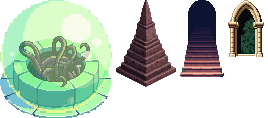
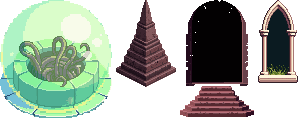
Temple: exact wall tiles, flush doors, no corner-only contacts, larger decor
The wall picker now prefers the tile with fewer wrong squares on a score tie (a wall's end tile was drawn partway
along straight walls); tools/walls.js lists any inexact corner and the test holds every place at none. Doors in
north-south walls, the palace's way out, the guardhouse door and the palace stair down are inpainted by PixelLab into
renders of their own spots. tools/diagonals.js and a test keep walkable squares from meeting only at a corner (three
in the sewer fixed). Larger statues, stairs up, masks, banners and niches.

Claude-Session: https://claude.ai/code/session_0141D3J1nxiiYur4nPnE9YEF

diff --git a/tools/diagonals.js b/tools/diagonals.js
@@ -1,0 +1,28 @@
+// Lists the places where two walkable squares touch only at a corner, with the two squares between them not walkable
+// (wall or deep water): drawn, the ground runs on through the corner and looks like a way through, but you can't step
+// it. node tools/diagonals.js [place...]; exits 1 if any.
+const path = require('path');
+const repo = path.resolve(__dirname, '..');
+process.chdir(repo + '/tests');
+require(repo + '/tests/load.js');
+const G = globalThis.BBB, places = G.Content.world.places;
+const ids = process.argv.slice(2).length ? process.argv.slice(2) : Object.keys(places).filter((id) => places[id].look && places[id].look.tileset);
+// Walkable by its letter: not wall or rock, and not ground you can't walk (deep water) or that is a wall (a riser).
+const walk = (pl, ch) => {
+  if (ch === undefined || ch === '#' || ch === ' ') return false;
+  const def = pl.legend && pl.legend[ch];
+  const gr = G.Explore.groundOf(def ? def.on || (pl.look && pl.look.ground) || '.' : ch);
+  return !(gr && (gr.wall || gr.walk === false));
+};
+let total = 0;
+for (const id of ids) {
+  const pl = places[id], rows = pl.map, bad = [];
+  const at = (x, y) => walk(pl, rows[y] && rows[y][x]);
+  for (let y = 0; y + 1 < rows.length; y++) for (let x = 0; x + 1 < rows[y].length; x++) {
+    const a = at(x, y), b = at(x + 1, y), c = at(x, y + 1), d = at(x + 1, y + 1);
+    if ((a && d && !b && !c) || (b && c && !a && !d)) bad.push(`${x},${y}`);
+  }
+  total += bad.length;
+  console.log(`${id}: ${bad.length} corner(s) where walkable squares touch only diagonally${bad.length ? ': ' + bad.join(' ') : ''}`);
+}
+process.exitCode = total ? 1 : 0;

diff --git a/src/ui/game/tilemap.js b/src/ui/game/tilemap.js
@@ -445,18 +445,21 @@
       const g = [];
       for (let i = 0; i < 4; i++) for (let j = 0; j < 4; j++) g.push(v(x - 2 + j, y - 2 + i));
       if (!(g[5] || g[6] || g[9] || g[10])) continue;
-      // Ties (a tile and its variants) are broken by position.
-      let best = null, bs = -Infinity, ties = 0;
+      // Of tiles that score the same, the one that gets fewer squares wrong: a wall's end tile also scores as much as its
+      // straight tile partway along it (one outer square right, one wrong), and drew a lip there. Ties left (a tile and
+      // its variants) are broken by position.
+      let best = null, bs = -Infinity, bm = 0, ties = 0;
       for (const tl of w.cliffTiles) {
-        let sc = 0;
+        let sc = 0, miss = 0;
         for (let k = 0; k < 16; k++) {
           const want = tl.p[k];
           if (want < 0) continue;
           const mid = k === 5 || k === 6 || k === 9 || k === 10;
           sc += g[k] === want ? (mid ? 10 : 1) : mid ? -30 : -1;
+          if (g[k] !== want) miss++;
         }
-        if (sc > bs) { bs = sc; best = tl; ties = 1; }
-        else if (sc === bs && hash(x, y, 13 + ties++) % ties === 0) best = tl;
+        if (sc > bs || (sc === bs && miss < bm)) { bs = sc; bm = miss; best = tl; ties = 1; }
+        else if (sc === bs && miss === bm && hash(x, y, 13 + ties++) % ties === 0) best = tl;
       }
       if (best) out.corner.push({ x, y, t: w.name, at: best.at });
       // A corner no tile fits exactly (some square the tile cares about differs): tools/walls.js lists these.

diff --git a/tools/walls.js b/tools/walls.js
@@ -1,7 +1,6 @@
-// Lists the wall corners in tiled places where the best tile of their cliff set gets one of the corner's own four
-// squares wrong: the shapes that draw broken (a wall stepping down one row at a time, a wall one square thick
-// north-south). A tile that only misses an outer square of the 4x4 is fine and not listed. tools/squarewalls.js fixes
-// most of them. node tools/walls.js [place...]
+// Lists the wall corners in tiled places that no tile of their cliff set fits exactly: the shapes that draw broken (a
+// wall stepping down one row at a time, a wall one square thick north-south, a wall's end where it runs straight on).
+// tools/squarewalls.js fixes the shapes. node tools/walls.js [place...]
 const path = require('path');
 const repo = path.resolve(__dirname, '..');
 process.chdir(repo + '/tests');
@@ -17,7 +16,7 @@ for (const id of ids) {
   const g = G.Explore.here(w);
   const sc = { w: g.w, h: g.h, cell: (x, y) => G.Explore.peek(w, x, y), misfits: true };
   const p = Tm.planTiles(sc, Tm.tileset(pl.look.tileset), 0, 0, g.w - 1, g.h - 1);
-  const bad = (p.misfit || []).filter((m) => m.full - m.score >= 40);
+  const bad = p.misfit || [];
   total += bad.length;
   console.log(`${id}: ${bad.length} corner(s) drawn broken`);
   for (const m of bad) console.log(`  corner ${m.x},${m.y} (${m.t}) ${m.g.match(/..../g).join(' ')} -> tile ${m.at} score ${m.score}/${m.full}`);

diff --git a/tests/walls.test.js b/tests/walls.test.js
@@ -1,5 +1,6 @@
-// Every tiled place's walls can be drawn: no corner whose best cliff tile gets one of its own four squares wrong
-// (tools/walls.js lists them, tools/squarewalls.js squares most of them off).
+// Every tiled place's walls can be drawn: no corner that no cliff tile fits exactly (tools/walls.js lists them,
+// tools/squarewalls.js squares most of them off). And no walkable squares that touch only at a corner
+// (tools/diagonals.js): drawn, they look like a way through.
 const test = require('node:test');
 const assert = require('node:assert/strict');
 const { execFileSync } = require('child_process');
@@ -10,4 +11,11 @@ test('walls: every corner in every tiled place has a tile that fits it', () => {
   try { out = execFileSync('node', [path.join(__dirname, '../tools/walls.js')], { encoding: 'utf8' }); } catch (e) { out = e.stdout; }
   const broken = out.split('\n').filter((l) => /: [1-9]\d* corner/.test(l));
   assert.deepEqual(broken, [], out);
+});
+
+test('maps: no walkable squares meet only at a corner', () => {
+  let out = '';
+  try { out = execFileSync('node', [path.join(__dirname, '../tools/diagonals.js')], { encoding: 'utf8' }); } catch (e) { out = e.stdout; }
+  const bad = out.split('\n').filter((l) => /: [1-9]\d* corner/.test(l));
+  assert.deepEqual(bad, [], out);
 });

diff --git a/assets/wip/temple-doors/plan.js b/assets/wip/temple-doors/plan.js
@@ -18,5 +18,5 @@ const sc = { w: rows[0].length, h: rows.length, cell: (x, y) => {
 const Tm = G.UI.Tilemap, ts = Tm.tileset(pl.look.tileset);
 const p = Tm.planTiles(sc, ts, x0, y0, x1, y1);
 const terr = {};
-for (const [n, t] of Object.entries(ts.terrains)) terr[n] = { tile: t.tile || null, wang: t.wang || null, index: t.index || null, cell: ts.cell };
+for (const [n, t] of Object.entries(ts.terrains)) terr[n] = { tile: t.tile || null, wang: t.wang || null, index: t.index || null, over: t.over || null, cell: ts.cell };
 console.log(JSON.stringify({ dir: ts.dir, cell: ts.cell, base: p.base, corner: p.corner, terr }));

diff --git a/assets/wip/temple-doors/add.py b/assets/wip/temple-doors/add.py
@@ -1,0 +1,32 @@
+# Appends inpainted rectangles to art/worldtiles/temple/temple-doors.png and records them in rects.json.
+#   python3 assets/wip/temple-doors/add.py "$PWD"
+# Each entry: name, the inpaint output, the mask rect in it (x, y, w, h), and the door square's top-left in it; the
+# rect's offset from that square is the prop's [dx, dy]. A name already in rects.json is left where it is.
+import sys, json
+from PIL import Image
+
+root = sys.argv[1]
+here = root + '/assets/wip/temple-doors/'
+sheet_path = root + '/art/worldtiles/temple/temple-doors.png'
+NEW = [
+    ('palace_east', 'out-palace-W.png', (0, 70, 140, 52), (64, 64)),     # the palace's way out, in the west wall
+    ('pstair_east', 'out-pstair-E.png', (56, 70, 80, 52), (64, 64)),     # a door in a narrow palace wall
+    ('walltop_east', 'out-wall-E.png', (56, 70, 80, 52), (64, 64)),      # the guardhouse door on the wall top
+    ('palace_down', 'out-palace-D.png', (116, 112, 88, 104), (128, 128)),  # the stairwell down in the hall's niche
+]
+rects = json.load(open(here + 'rects.json'))
+sheet = Image.open(sheet_path).convert('RGBA')
+for name, f, (x, y, w, h), (sx, sy) in NEW:
+    if name in rects:
+        continue
+    piece = Image.open(here + f).convert('RGBA').crop((x, y, x + w, y + h))
+    at = sheet.width
+    grown = Image.new('RGBA', (at + w, max(sheet.height, h)), (0, 0, 0, 0))
+    grown.paste(sheet, (0, 0))
+    grown.paste(piece, (at, 0))
+    sheet = grown
+    rects[name] = [at, 0, w, h, x - sx, y - sy]
+sheet.save(sheet_path)
+json.dump(rects, open(here + 'rects.json', 'w'))
+for name, *_ in NEW:
+    print(f'    {name}: [temple-doors.png, ' + ', '.join(map(str, rects[name])) + ']')

diff --git a/assets/wip/temple-palace/build.py b/assets/wip/temple-palace/build.py
@@ -13,8 +13,10 @@ out = root + '/art/worldtiles/temple/'
 for n in ('palace-wall', 'palace-dais'):
     Image.open(here + n + '.png').convert('RGBA').save(out + n + '.png')
 
-PIECES = ['p-throne', 'p-statue', 'p-brazier', 'p-column', 'p-stairup', 'p-stairdown', 'p-bed', 'p-cot', 'p-table',
-          'p-barrels', 'f-mask', 'f-banner']
+# The statue, stair up, mask and banner are the second, larger versions (the user: "a lot of the decor is small
+# relative to the tiles"); the stair down is now inpainted into its niche (temple-doors.png, palace_down).
+PIECES = ['p-throne', 'p-statue2', 'p-brazier', 'p-column', 'p-stairup2', 'p-bed', 'p-cot', 'p-table',
+          'p-barrels', 'f-mask2', 'f-banner3']
 ims = [Image.open(here + n + '.png').convert('RGBA') for n in PIECES]
 ims = [im.crop(im.getbbox()) for im in ims]
 sheet = Image.new('RGBA', (sum(im.width + 4 for im in ims), max(im.height for im in ims)), (0, 0, 0, 0))

diff --git a/assets/wip/temple-doors/render.py b/assets/wip/temple-doors/render.py
@@ -15,6 +15,12 @@ for b in d['base']:
     tile = t['tile']
     if isinstance(tile, list): tile = tile[0]
     if tile: im.alpha_composite(img(tile), ((b['x'] - x0) * C, (b['y'] - y0) * C))
+    else:
+        # Plain ground under a corner set, as the game draws it: that set's all-lower tile.
+        w = next((v for v in d['terr'].values() if v.get('over') == b['t'] and v.get('index') and '0' in v['index']), None)
+        if w:
+            cx, cy = w['index']['0']
+            im.alpha_composite(img(w['wang']).crop((cx * C, cy * C, cx * C + C, cy * C + C)), ((b['x'] - x0) * C, (b['y'] - y0) * C))
 for c in d['corner']:
     t = d['terr'][c['t']]
     at = c.get('at') or t['index'][str(c['m'])]

diff --git a/assets/wip/temple-ritual/build.py b/assets/wip/temple-ritual/build.py
@@ -34,7 +34,7 @@ orbd.alpha_composite(orb, (96 - orb.width // 2, 164 - orb.height // 2))
 orbd = orbd.crop(orbd.getbbox())
 
 pieces = [('orb', orbd), ('pyramid', Image.open(here + 'p-pyramid.png').convert('RGBA')),
-          ('stair', Image.open(here + 'p-stair.png').convert('RGBA')), ('niche', Image.open(here + 'f-niche.png').convert('RGBA'))]
+          ('stair', Image.open(here + 'p-stair2.png').convert('RGBA')), ('niche', Image.open(here + 'f-niche3.png').convert('RGBA'))]
 pieces = [(n, im.crop(im.getbbox())) for n, im in pieces]
 sheet = Image.new('RGBA', (sum(im.width + 4 for _, im in pieces), max(im.height for _, im in pieces)), (0, 0, 0, 0))
 x = 0

diff --git a/HANDOFF.md b/HANDOFF.md
@@ -151,9 +151,21 @@ idle, walk, attack, hurt, death. PixelLab gives 8 directions; the map mirrors 2,
   chambers, the great hall (columns, braziers, masks and banners on the walls, the throne on a raised dais: ground `|`),
   stairs up to the living quarters and servants' hall, and in a niche the stair down past a few small rooms to the
   ritual chamber. Every place of the temple is now joined up; the court's palace door opens.
-- [ ] Palace, still open: the wall face is greyer than the reference's sandy plaster; the statues came out bronze; the
-  stair down is a dark box; doors in north-south walls are drawn face-on; no raised platform along the hall's sides as
-  in the reference (only the dais); encounters are scaleward stand-ins.
+- [x] Mismatched wall tiles, doors not flush, corner-only contacts, small decor (the user, 2026-10-25):
+  - the wall picker broke score ties by position, so a wall's end tile (as good by score, one outer square wrong) was
+    drawn partway along straight walls as a stray lip; now the tile with fewer wrong squares wins. Every corner in every
+    temple place has an exact tile; `tools/walls.js` now lists any inexact corner and the test holds it at none;
+  - doors in north-south walls, the palace's way out and the guardhouse door are inpainted into their own walls, seen
+    from above edge-on (the palace set now has `doorsInWall`); the palace stair down is a stairwell inpainted into its
+    niche (`assets/wip/temple-doors/README.md`);
+  - `tools/diagonals.js` lists walkable squares that meet only at a corner (a test holds it at none): three in the
+    sewer, where walkway touched the deck ring's corners, are now water;
+  - larger statues (about 2.7 squares), stairs up (palace and ritual), masks, banners and ritual niches, sized to the
+    wall face.
+- [ ] Palace, still open: the wall face is greyer than the reference's sandy plaster; the statues came out golden, not
+  sandstone; the narrow doors' passage is grey stone, lighter than the floor; no raised platform along the hall's
+  sides as in the reference (only the dais); encounters are scaleward stand-ins. Columns, braziers and the orb were
+  left at their size: say if they want to grow too.
 - [ ] Monsters: an alligator monster for the sewers (the sheet exists); lizardfolk variants; the avatar of fear as the
   ritual chamber's boss.
 - [ ] The temple props also replace the Cute Fantasy props the published site may not show.

diff --git a/assets/wip/temple-doors/README.md b/assets/wip/temple-doors/README.md
@@ -38,3 +38,24 @@ dark wood plank edges with bronze fittings running from the top of the passage t
 jambs. The plain wall top above and below the passage." The masks now run to the wall's edge (gate 0,70 122x52; palace
 70,70 122x52; labyrinth 122,70 70x52). The labyrinth's came out with no door; the gate's door strip (columns 103-112)
 was pasted into it. The first versions are still in the sheet, unused.
+
+## Doors in north-south walls, the palace's way out, its stair down (2026-10-25)
+
+The user: "some objects (eg doors) are not flush" and "we should probably use pixel lab to generate east-west opening
+doors". The palace's doors in its narrow north-south walls, its way out to the court and the guardhouse door on the
+wall top were drawn face-on in the gap (the palace set had no `doorsInWall`, the wall top no `door_east`). Now the
+palace draws doorways as wall too, and each picture is inpainted into a render of its own spot, with the gate's prompt
+("a passage running left to right through the wall ... a closed heavy wooden door seen from directly above, so it
+appears only as a thin vertical strip"):
+
+- pstair-E (a door in a one-square palace wall, temple_palace_stair 7..9, 6..8; mask 56,70 80x52): the palace's
+  `door_east` and `door_west`. The passage came out grey stone, lighter than the floor.
+- palace-W (the way out, temple_palace 0..2, 14..16; mask 0,70 140x52): `palace_gate`, the W legend's sprite.
+- wall-E (the guardhouse door, temple_wall 4..6, 7..9; mask 56,70 80x52): the wall top's `door_east`.
+- palace-D (the stair down in the great hall's niche, temple_palace 28..31, 27..30; mask 116,112 88x104): "a
+  rectangular stairwell cut into the dark grey-brown stone slab floor, a flight of worn sandy yellow-tan stone steps
+  descending downward toward the bottom of the image, each step lower and darker, fading into deep shadow at the
+  bottom under the wall" (the palace's `stair_down`; the map object had come out a dark box).
+
+render.py now draws plain ground under a corner set (the palace's floor has no tile of its own). add.py appends the
+cut rectangles to temple-doors.png and records them in rects.json.

diff --git a/assets/wip/temple-palace/README.md b/assets/wip/temple-palace/README.md
@@ -34,3 +34,11 @@ All PixelLab pro, 64 px, high top-down, lineless, basic shading.
   carved stone mask of a long gaunt solemn face", f-banner (d5106f6d, low detail) "a long narrow hanging cloth banner of
   dark green with a coiled gold serpent emblem".
 - build.py copies the two sheets into art/worldtiles/temple/ and packs the pieces into palace-props.png.
+- Larger pieces (2026-10-25; the user: "a lot of the decor is small relative to the tiles, even when it seems like it
+  should be larger (statues, windows, etc)"): p-statue2 (18b1d85b, 96x192) "a tall statue carved entirely from pale
+  sandy yellow-tan stone of a lizardfolk warrior ... no metal" (came out golden; about 2.7 squares tall, was 1.7);
+  p-stairup2 (6d7c2565, 112x144) "a wide round-arched dark doorway in a sandy yellow-tan plastered stone wall with a
+  broad flight of worn sandy stone steps climbing up"; f-mask2 (cb468a7c, 64x96) and f-banner3 (ea9326a8, 40x88)
+  sized to fill the wall face (about 84 px, from -80 to +6 against the square in front; f-banner2 at 112 hung onto
+  the floor). The stair down is now inpainted into its niche (assets/wip/temple-doors/, palace_down); p-stairdown2
+  (ca3e6b87) came out a ladder in a hole, unused.
